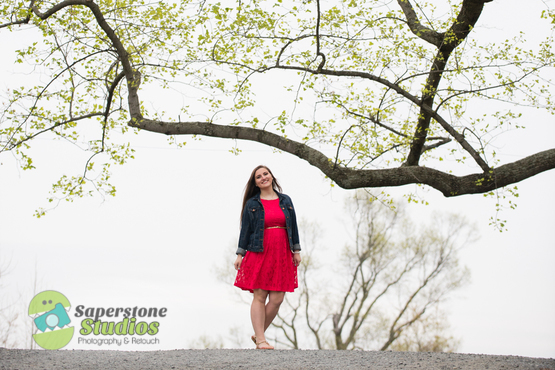
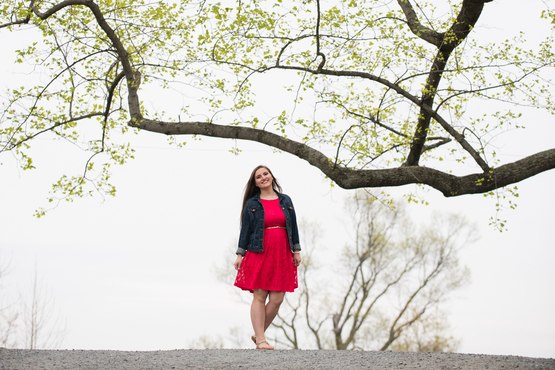
Removing watermark from edited page images

Changed region(s): [[0.0306, 0.773, 0.3063, 0.9514]]

diff --git a/js/edit-image.js b/js/edit-image.js
@@ -95,7 +95,7 @@ function cropImage(img) {
 
 function cleanImage(img) {
     // remove our old info
-    img.parent().find('.watermark').remove();
+//    img.parent().find('.watermark').remove();
     img.parent().find('.saveme').remove();
 
     // save off some info
@@ -120,17 +120,17 @@ function cleanImage(img) {
     img.attr('src', new_img + "?" + randomImgNumber());
 
     // add our watermark
-    var watermark = $("<img>");
-    watermark.addClass("watermark");
-    watermark.attr("src", "/img/watermark.png");
-    watermark.css({
-        'position' : 'absolute',
-        'width' : '200px',
-        'bottom' : '0px',
-        'left' : '0px',
-        'padding' : '5px',
-    });
-    img.parent().append(watermark);
+//    var watermark = $("<img>");
+//    watermark.addClass("watermark");
+//    watermark.attr("src", "/img/watermark.png");
+//    watermark.css({
+//        'position' : 'absolute',
+//        'width' : '200px',
+//        'bottom' : '0px',
+//        'left' : '0px',
+//        'padding' : '5px',
+//    });
+//    img.parent().append(watermark);
 
     // add our save button
     var span = $("<span>");

diff --git a/api/crop-image.php b/api/crop-image.php
@@ -67,7 +67,7 @@ if (getimagesize ( $image ) [1] < $height) {
 system ( "mogrify -crop ${maxWidth}x${height}+0+${top} \"$image\"" );
 
 // add our watermark
-system ( "composite -gravity southwest -geometry 200x150+0+0 ../img/watermark.png \"$image\" \"$image\"" );
+// system ( "composite -gravity southwest -geometry 200x150+0+0 ../img/watermark.png \"$image\" \"$image\"" );
 
 // rename the image
 $filePath = dirname ( $image );
